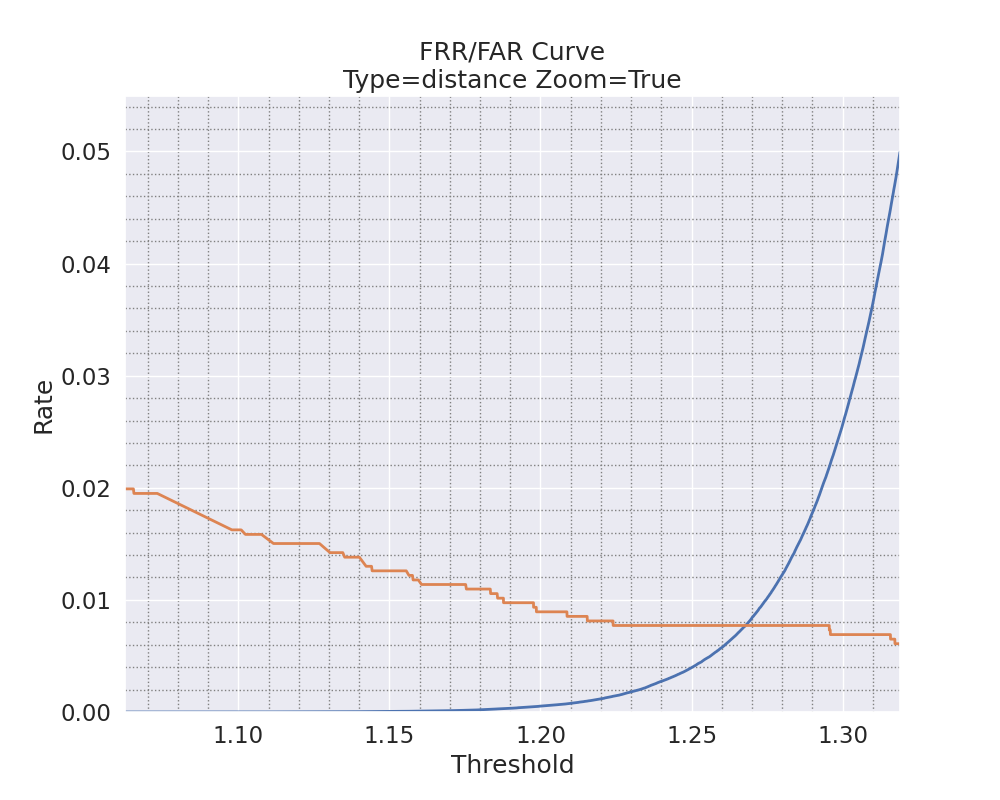
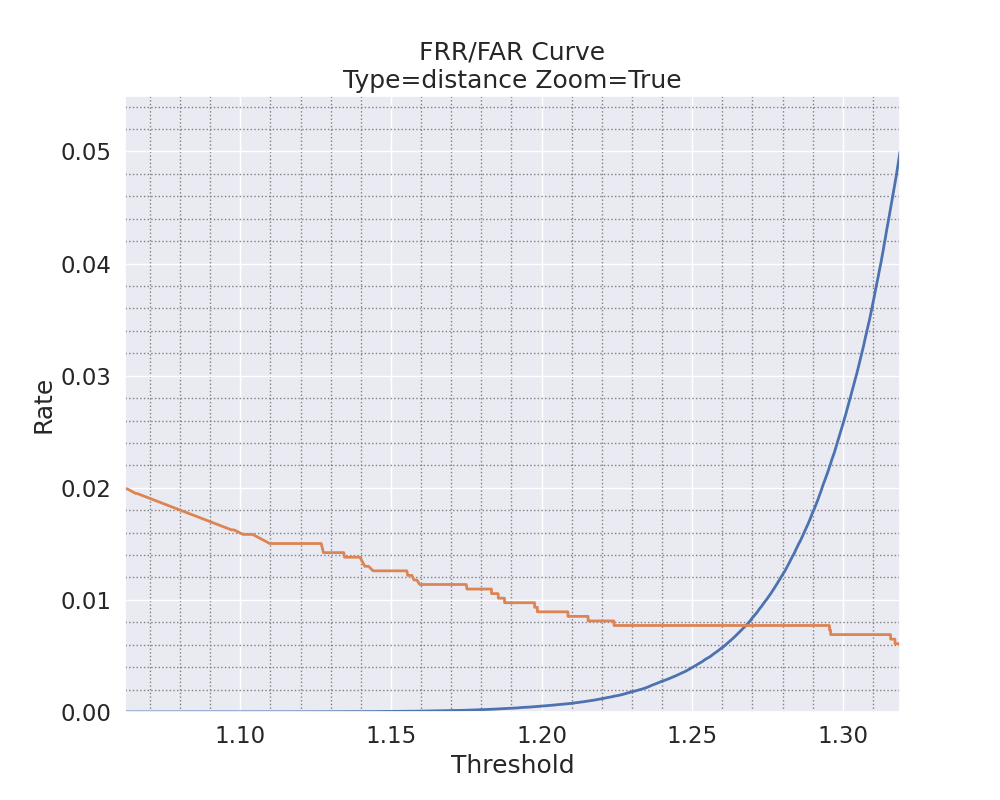
1

diff --git a/BioUtils.py b/BioUtils.py
@@ -1,0 +1,90 @@
+import numpy
+
+def sklearn_metrics_roc_curve(y_true, y_score, direct=True, pos_label=None):
+    """Calculate true and false positives per binary classification threshold.
+
+    Parameters
+    ----------
+    y_true : ndarray of shape (n_samples,)
+        True targets of binary classification.
+
+    y_score : ndarray of shape (n_samples,)
+        Estimated probabilities or output of a decision function.
+
+    pos_label : int or str, default=None
+        The label of the positive class.
+
+    sample_weight : array-like of shape (n_samples,), default=None
+        Sample weights.
+
+    Returns
+    -------
+    fps : ndarray of shape (n_thresholds,)
+        A count of false positives, at index i being the number of negative
+        samples assigned a score >= thresholds[i]. The total number of
+        negative samples is equal to fps[-1] (thus true negatives are given by
+        fps[-1] - fps).
+
+    tps : ndarray of shape (n_thresholds,)
+        An increasing count of true positives, at index i being the number
+        of positive samples assigned a score >= thresholds[i]. The total
+        number of positive samples is equal to tps[-1] (thus false negatives
+        are given by tps[-1] - tps).
+
+    thresholds : ndarray of shape (n_thresholds,)
+        Decreasing score values.
+    """
+
+    # make y_true a boolean vector
+    if y_true.dtype != bool:
+        y_true = (y_true == pos_label)
+
+    # sort scores and corresponding truth values
+    if direct:
+        desc_score_indices = numpy.argsort(y_score, kind="mergesort")[::-1]
+    else:
+        desc_score_indices = numpy.argsort(-y_score, kind="mergesort")[::-1]
+    y_score = y_score[desc_score_indices]
+    y_true = y_true[desc_score_indices]
+
+    # y_score typically has many tied values. Here we extract
+    # the indices associated with the distinct values. We also
+    # concatenate a value for the end of the curve.
+    distinct_value_indices = numpy.where(numpy.diff(y_score))[0]
+    threshold_idxs = numpy.r_[distinct_value_indices, y_true.size - 1]
+
+    # accumulate the true positives with decreasing threshold
+    tps = numpy.cumsum(y_true)[threshold_idxs]
+    fps = 1 + threshold_idxs - tps
+    thresholds = y_score[threshold_idxs]
+
+    # Attempt to drop thresholds corresponding to points in between and
+    # collinear with other points. These are always suboptimal and do not
+    # appear on a plotted ROC curve (and thus do not affect the AUC).
+    # Here np.diff(_, 2) is used as a "second derivative" to tell if there
+    # is a corner at the point. Both fps and tps must be tested to handle
+    # thresholds with multiple data points (which are combined in
+    # _binary_clf_curve). This keeps all cases where the point should be kept,
+    # but does not drop more complicated cases like fps = [1, 3, 7],
+    # tps = [1, 2, 4]; there is no harm in keeping too many thresholds.
+    optimal_idxs = numpy.where(numpy.r_[True, numpy.logical_or(numpy.diff(fps, 2), numpy.diff(tps, 2)), True])[0]
+    fps = fps[optimal_idxs]
+    tps = tps[optimal_idxs]
+    thresholds = thresholds[optimal_idxs]
+
+    # Add an extra threshold position
+    # to make sure that the curve starts at (0, 0)
+    if direct:
+        if pos_label is not None:
+            tps = numpy.r_[0, tps]
+            fps = numpy.r_[0, fps]
+            thresholds = numpy.r_[pos_label, thresholds]
+    else:
+        tps = numpy.r_[0, tps]
+        fps = numpy.r_[0, fps]
+        thresholds = numpy.r_[0, thresholds]
+
+    fpr = fps / fps[-1]
+    tpr = tps / tps[-1]
+
+    return fpr, tpr, thresholds

diff --git a/BioEstimation.py b/BioEstimation.py
@@ -1,9 +1,10 @@
 import numpy
+import sklearn.metrics
 
 import BioProbes as bp
 import BioIdentification as bi
 import BioConstants as bconst
-import BioDraw as bd
+import BioPlotting as bd
 import BioVerification as bv
 
 class BioEstimation():
@@ -25,9 +26,11 @@ class BioEstimation():
             distanceMax = numpy.asarray(distances).max()
             self.reals = [bconst.DISTANCE_TRUE_VALUE if reals else distanceMax]
 
-    def VerificationCurves(self, isMatrix=bconst.SIMILARITY, filepath="", zoom=False, zoom_rates={'fnfp': 1.0, 'tp': 0.9, 'fp': 0.1}):
+    def VerificationCurves(self, isMatrix=bconst.SIMILARITY, filepath="", zoom=False, zoom_rates={'fnfp': 1.0, 'tp': 0.9, 'fp': 0.1, 'fn': 0.1}):
         bioVerification = bv.BioVerification()
+        # получение значений
         fpr, fnr, thresholds = bioVerification.getFPRFNR(self.bioProbes, isMatrix)
+        # построение графиков
         bioDraw = bd.BioDraw()
         curveName = 'FRR/FAR Curve\n' + 'Type=' + isMatrix + ' Zoom=' + str(zoom)
         filename = filepath + '/FARFRR_' + isMatrix + ('_zoom' if zoom else '') + '.png'
@@ -36,6 +39,9 @@ class BioEstimation():
         filename = filepath + '/ROC_' + isMatrix + ('_zoom' if zoom else '') + '.png'
         tpr = 1 - fnr
         bioDraw.drawRocCurve(curveName, 'FAR', fpr, 'TAR', tpr, filename, zoom, zoom_rates['tp'], zoom_rates['fp'])
+        curveName = 'DET Curve\n' + 'Type=' + isMatrix + ' Zoom=' + str(zoom)
+        filename = filepath + '/DET_' + isMatrix + ('_zoom' if zoom else '') + '.png'
+        bioDraw.drawDetCurve(curveName, 'FAR', fpr, 'FRR', fnr, filename, zoom, zoom_rates['fp'], zoom_rates['fn'])
 
     def IdentificationCurves(self, isMatrix=bconst.SIMILARITY, mode="any", L=1, filepath="", zoom=False, zoom_rates={'fnfp': 1.0, 'tp': 0.9, 'fp': 0.1}):
         bioIdentification = bi.BioIdentification()
@@ -52,9 +58,9 @@ class BioEstimation():
 bioEstimation = BioEstimation(bconst.PROBES_PATH)
 
 bioEstimation.VerificationCurves(isMatrix=bconst.SIMILARITY, filepath="./output")
-bioEstimation.VerificationCurves(isMatrix=bconst.SIMILARITY, filepath="./output", zoom=True, zoom_rates={'fnfp': 0.05, 'tp': 0.98, 'fp': 0.02})
+bioEstimation.VerificationCurves(isMatrix=bconst.SIMILARITY, filepath="./output", zoom=True, zoom_rates={'fnfp': 0.05, 'tp': 0.98, 'fp': 0.02, 'fn': 0.02})
 bioEstimation.VerificationCurves(isMatrix=bconst.DISTANCE, filepath="./output")
-bioEstimation.VerificationCurves(isMatrix=bconst.DISTANCE, filepath="./output", zoom=True, zoom_rates={'fnfp': 0.05, 'tp': 0.98, 'fp': 0.02})
+bioEstimation.VerificationCurves(isMatrix=bconst.DISTANCE, filepath="./output", zoom=True, zoom_rates={'fnfp': 0.05, 'tp': 0.98, 'fp': 0.02, 'fn': 0.02})
 
 #Ls = [1, 2, 3, 5, 10, 50, 100]
 #for L in Ls:

diff --git a/BioPlotting.py b/BioPlotting.py
@@ -68,3 +68,56 @@ class BioDraw():
         matplotlib.pyplot.savefig(filename)
         matplotlib.pyplot.show()
 
+    # построение графика DET (FNR of FPR) curve
+    # falsePositive = FPR/FAR/FPIR  falseNegative = FNR/FRR/FNIR
+    def drawDetCurve(self, curveName, falsePositiveName, falsePositives, falseNegativeName, falseNegatives, filename, zoom=False, zoom_fp=0, zoom_fn=0):
+        fp, fn = [], []
+        if zoom:
+            for x in range(len(falsePositives)):
+                if falsePositives[x] <= zoom_fp and falseNegatives[x] <= zoom_fn:
+                    fp.append(falsePositives[x])
+                    fn.append(falseNegatives[x])
+        else:
+            fp = falsePositives
+            fn = falseNegatives
+        seaborn.set(font_scale=1.5)
+        seaborn.set_color_codes("muted")
+        matplotlib.pyplot.figure(figsize=(10, 8))
+        lw = 2
+        matplotlib.pyplot.plot(fp, fn, lw=lw, label='DET curve')
+        matplotlib.pyplot.minorticks_on()
+        matplotlib.pyplot.grid(which='minor', color='gray', linestyle=':')
+        minX = min(fp)
+        maxX = max(fp)
+        minY = min(fn)
+        maxY = max(fn)
+        matplotlib.pyplot.xlim([minX, maxX])
+        matplotlib.pyplot.ylim([minY, maxY + (maxY-minY)/10])
+        matplotlib.pyplot.xlabel(falsePositiveName)
+        matplotlib.pyplot.ylabel(falseNegativeName)
+        matplotlib.pyplot.title(curveName)
+        matplotlib.pyplot.savefig(filename)
+        matplotlib.pyplot.show()
+
+# построение графика Precision-recall curve
+def drawPrecisionRecallCurve(Y_real, Y_pred, PRCurve_filename):
+    precision, recall, thresholds = estimation_utils.getPrecisionRecallCurve(Y_real, Y_pred)
+    seaborn.set(font_scale=1.5)
+    seaborn.set_color_codes("muted")
+    matplotlib.pyplot.figure(figsize=(10, 8))
+    lw = 2
+    matplotlib.pyplot.plot(recall, precision, lw=lw, label='Precision/Recall curve')
+    matplotlib.pyplot.plot([0, 1], [1, 0])
+    matplotlib.pyplot.minorticks_on()
+    matplotlib.pyplot.grid(which='minor', color='gray', linestyle=':')
+    minX = min(recall) if min(recall) <= 0 else 0
+    maxX = max(recall) if max(recall) >= 1 else 1
+    minY = min(precision) if min(precision) <= 0 else 0
+    maxY = max(precision) if max(precision) >= 1 else 1
+    matplotlib.pyplot.xlim([minX, maxX])
+    matplotlib.pyplot.ylim([minY, maxY + 0.05])
+    matplotlib.pyplot.xlabel('Recall')
+    matplotlib.pyplot.ylabel('Precision')
+    matplotlib.pyplot.title('Precision/Recall curve')
+    matplotlib.pyplot.savefig(PRCurve_filename)
+    # matplotlib.pyplot.show()

diff --git a/BioVerification.py b/BioVerification.py
@@ -1,4 +1,5 @@
 import BioConstants as bconst
+import BioUtils as bu
 
 import sklearn.metrics
 import numpy
@@ -12,13 +13,11 @@ class BioVerification():
         probeIds, probePersons, galleryIds, galleryPersons, reals, distances, similarity = bioProbes.get()
         if isMatrix == bconst.DISTANCE:
             matrix = distances
-            maxD = numpy.max(matrix)
-            pos = math.floor(maxD)
-            reals_new = (1 - reals) * pos
-            pos = 0
+            direct = False
+            pos = None
         else:
             matrix = similarity
-            reals_new = reals.astype(int)
+            direct = True
             pos = 1
         pairs = set()
         realList = []
@@ -29,15 +28,12 @@ class BioVerification():
                 if probeIds[i] == galleryIds[j]: continue
                 pair = frozenset({probeIds[i], galleryIds[j]})
                 if pair in pairs: continue
-                realList.append(reals_new[i][j])
+                realList.append(reals[i][j])
                 probeList.append(matrix[i][j])
                 pairs.add(pair)
         realList = numpy.asarray(realList)
         probeList = numpy.asarray(probeList)
-        fpr, tpr, thresholds = sklearn.metrics.roc_curve(realList, probeList, pos_label=pos)
-        if isMatrix == bconst.DISTANCE:
-            fpr = 1 - fpr
-            tpr = 1 - tpr
+        fpr, tpr, thresholds = bu.sklearn_metrics_roc_curve(realList, probeList, direct=direct, pos_label=pos)
         return fpr, tpr, thresholds
 
     def getFPRFNR(self, bioProbes, isMatrix=bconst.SIMILARITY):

diff --git a/VisionLabs.py b/VisionLabs.py
@@ -1,6 +1,7 @@
 import FaceEngine as fe
 from tqdm import tqdm
 import numpy
+import BioConstants as bconst
 
 lunasdk_path = "../lunasdk/"
 data_path = lunasdk_path + "data/"
@@ -27,6 +28,7 @@ class Luna():
         self.detector = self.faceEngine.createDetector(fe.FACE_DET_V3)
         self.warper = self.faceEngine.createWarper()
         self.extractor = self.faceEngine.createExtractor()
+        self.matcher = self.faceEngine.createMatcher()
 
     def imageConvert(self, imagePath):
         image = fe.Image()
@@ -56,13 +58,12 @@ class Luna():
         return vector
 
     def match(self, descriptor1, descriptor2):
-        matcher = self.faceEngine.createMatcher()
         desc1 = self.faceEngine.createDescriptor()
         desc2 = self.faceEngine.createDescriptor()
-        desc1.load(descriptor1)
-        desc2.load(descriptor2)
-        err, value = matcher.match(descriptor1, descriptor2)
-        return {"distance": value.distance, "similarity": value.similarity}
+        desc1.load(descriptor1, len(descriptor1))
+        desc2.load(descriptor2, len(descriptor2))
+        err, value = self.matcher.match(desc1, desc2)
+        return value.distance, value.similarity
 
     def runExtract(self, images):
         extractor = self.faceEngine.createExtractor()
